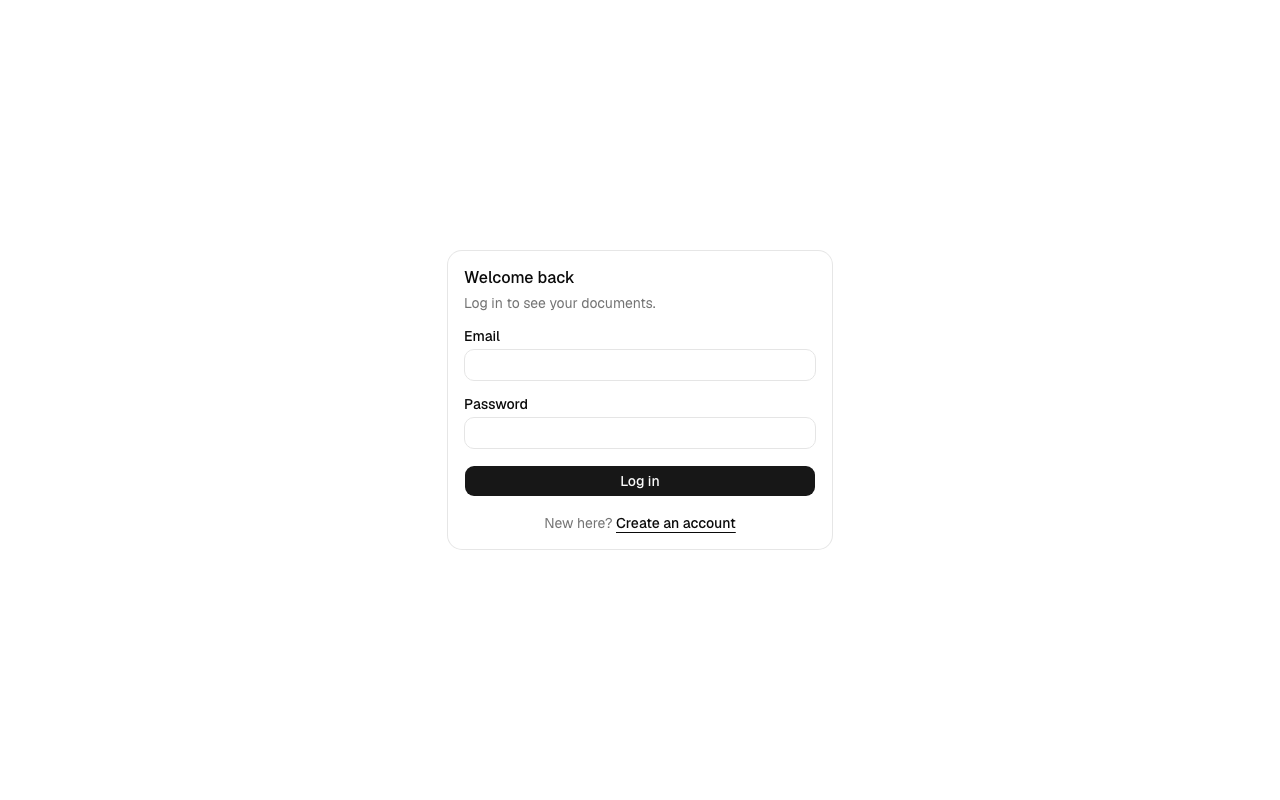
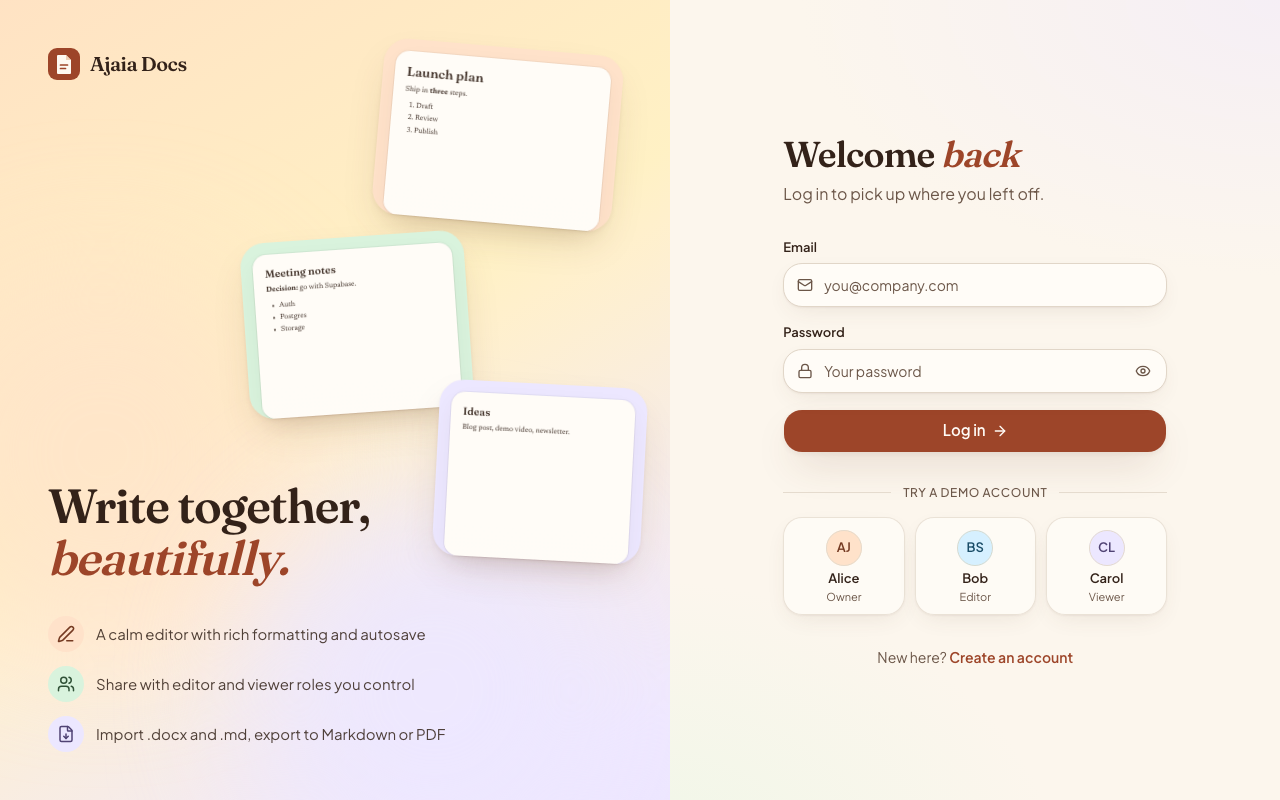
Fixed-layer background wash; docs updated for redesign

diff --git a/src/app/globals.css b/src/app/globals.css
@@ -144,11 +144,18 @@
   }
   body {
     @apply bg-background text-foreground;
+  }
+  /* Soft pastel wash behind everything (a fixed layer works on iOS too, unlike background-attachment) */
+  body::before {
+    content: "";
+    position: fixed;
+    inset: 0;
+    z-index: -1;
+    pointer-events: none;
     background-image:
       radial-gradient(900px 480px at 8% -8%, oklch(0.93 0.06 60 / 0.55), transparent 60%),
       radial-gradient(800px 460px at 100% 0%, oklch(0.94 0.045 295 / 0.45), transparent 60%),
       radial-gradient(700px 500px at 50% 110%, oklch(0.95 0.05 150 / 0.35), transparent 60%);
-    background-attachment: fixed;
   }
   h1, h2, h3 { font-family: var(--font-display); letter-spacing: -0.01em; }
   html {

diff --git a/README.md b/README.md
@@ -10,11 +10,16 @@ A small full-stack, Google-Docs-inspired editor: create and edit rich-text docum
 | `bob@example.com` | `Demo-pass-123` | **Editor** on Alice's *Q1 Product Roadmap*, **viewer** on *Meeting notes* |
 | `carol@example.com` | `Demo-pass-123` | **Viewer** on *Q1 Product Roadmap* |
 
-You can also create your own account at `/signup` (no email confirmation needed).
+You can also create your own account at `/signup` (no email confirmation needed). On the login page, the **Alice / Bob / Carol** buttons log you in with one click.
 
 > **Quick sharing demo:** open two browsers (or one normal + one private window), log in as Alice in one and Bob in the other. Alice: open *Q1 Product Roadmap* → **Share** → change Bob's role or remove him. Bob: refresh to see the change.
 
-![Dashboard](docs/screenshots/02-dashboard.png)
+![Dashboard](docs/screenshots/03-dashboard.png)
+
+| | |
+|---|---|
+| ![Login](docs/screenshots/01-login.png) | ![Editor](docs/screenshots/06-editor.png) |
+| ![Share dialog](docs/screenshots/05-share.png) | ![Phone layout](docs/screenshots/11-mobile-editor.png) |
 
 ## What it does
 
@@ -26,11 +31,12 @@ You can also create your own account at `/signup` (no email confirmation needed)
 | **File upload** | Turns a file into a **new editable document**. Supported: **`.txt`, `.md`, `.docx`**, up to **4 MB**. Headings, bold, italic, underline and lists are kept; images and tables are not imported. This is stated in the upload dialog. |
 | **Sharing & roles** | Owner shares by email as **Editor** or **Viewer**; owner can change roles or revoke at any time. Editors can edit and rename; viewers are read-only; only the owner can share or delete. Enforced in the database (RLS), not just the UI. |
 | **Export** *(stretch)* | **Markdown** (`.md` download) and **PDF** (browser print dialog → "Save as PDF", with a print stylesheet that hides the app chrome). Available to every role, from the editor or the dashboard card menu. |
-| **Quality** | Input validation (zod) on client and server, friendly error states, accessibility scans (axe) on every screen, responsive layout, 54 automated tests. |
+| **Design** | A warm pastel design system (cream, peach, sage, lavender) with a typographic pairing of Fraunces (display), Plus Jakarta Sans (UI) and Newsreader (document body). Document **thumbnails** on the dashboard, a glass navbar, and Framer Motion micro-interactions (staggered cards, hover lift, animated save status, animated dialogs); `prefers-reduced-motion` is respected. Login/signup are a split-screen with one-click **demo accounts**. |
+| **Quality** | Input validation (zod) on client and server, friendly error states, accessibility scans (axe) on every screen, responsive layout, 59 automated tests. |
 
 ## Tech stack
 
-Next.js 16 (App Router, Server Actions) · TypeScript · Tailwind + shadcn/ui · Tiptap editor · Supabase (Auth, Postgres + Row Level Security) · Vercel · Vitest + Playwright.
+Next.js 16 (App Router, Server Actions) · TypeScript · Tailwind + shadcn/ui · Framer Motion · Tiptap editor · Supabase (Auth, Postgres + Row Level Security) · Vercel · Vitest + Playwright.
 
 See [ARCHITECTURE.md](ARCHITECTURE.md) for design decisions and trade-offs.
 
@@ -74,7 +80,7 @@ npm run db:push
 ```
 
 This applies the SQL files in [`supabase/migrations`](supabase/migrations) using the Supabase CLI (installed on demand: `brew install supabase/tap/supabase`, or see the Supabase docs).
-**No CLI?** Open the Supabase dashboard → **SQL Editor**, then paste and run the two migration files **in order** (`…_init.sql`, then `…_fix_select_policy.sql`).
+**No CLI?** Open the Supabase dashboard → **SQL Editor**, then paste and run the three migration files **in order** (`…_init.sql`, `…_fix_select_policy.sql`, then `…_document_preview.sql`).
 
 ### 5. Seed demo data
 
@@ -93,7 +99,7 @@ npm run dev      # http://localhost:3000
 ## Tests
 
 ```bash
-npm test             # 35 unit + database tests (Vitest)
+npm test             # 40 unit + database tests (Vitest)
 npm run typecheck && npm run lint
 npm run test:e2e     # 19 browser tests (Playwright); starts the dev server itself
 ```
@@ -103,6 +109,7 @@ Run E2E against the deployed site with `E2E_BASE_URL=https://mock-doc.vercel.app
 
 What the tests cover:
 - **`tests/rls.test.ts`** — runs against the real Supabase project with throwaway users: strangers can't read, viewers can't write, editors can't change ownership or manage shares, only owners delete, revoked access takes effect immediately.
+- **`tests/preview.test.ts`** — the database trigger that derives dashboard thumbnails: capped to the first blocks, follows edits, can't be forged by a client, falls back to an excerpt for huge blocks.
 - **`tests/import.test.ts`, `tests/export.test.ts`** — txt/md/docx conversion (including a real `.docx` generated in the test), XSS stripping, bad-file rejection, Markdown serialization and a round trip.
 - **`tests/e2e/*`** — the full user journeys in a real browser: auth, CRUD + formatting persistence, upload, two-user sharing lifecycle (viewer → editor → revoked, including mid-edit), export downloads, offline autosave recovery, axe accessibility scans, and zero console errors.
 

diff --git a/AI_WORKFLOW.md b/AI_WORKFLOW.md
@@ -19,7 +19,7 @@
 - **Scaffolding and wiring:** Next 16 + shadcn + Supabase SSR auth + route protection in minutes instead of hours.
 - **Schema and RLS:** drafted tables, policies and `SECURITY DEFINER` helpers, then proved them with a database test using real users.
 - **Editor and converters:** Tiptap toolbar, autosave state machine, `.txt/.md/.docx` import, Markdown serializer.
-- **Tests:** 54 automated tests (35 unit/database + 19 Playwright), including two-user sharing scenarios that would have been tedious to hand-write.
+- **Tests:** 59 automated tests (40 unit/database + 19 Playwright), including two-user sharing scenarios that would have been tedious to hand-write.
 - **Ops chores:** finding the right Supabase pooler region (the direct DB host is IPv6-only), Vercel env vars across environments, GitHub integration.
 
 ## What AI got wrong, and what I changed or rejected
@@ -38,6 +38,10 @@ Every item below was a real defect or a rejected suggestion in this build:
 | 8 | **Phone layout** of the editor header | Overflowed horizontally (title input vanished, Share cut off). Found in a phone-width screenshot; fixed with a wrapping header and icon-only buttons. |
 | 9 | **My own E2E test** clicked Delete without waiting | Leaked "Untitled document" rows into the database. Fixed with unique titles and an assertion; cleaned the rows. |
 | 10 | **Axe scans mid-animation** reported false contrast failures | Added a wait for animations to settle before scanning (stricter and non-flaky, not a relaxed rule). |
+| 11 | **Visual redesign** (new theme, Framer Motion, thumbnails): the demo-login buttons used an `aria-label` that didn't contain their visible text | Axe flagged it; switched to a visible-text accessible name. The new "Log in as…" buttons also broke every E2E login (substring match), so tests now match exactly. |
+| 12 | **Animated save indicator** cross-faded, leaving the old "Saved" label on screen for ~160 ms | A sharing test passed a save-wait too early and read stale data. I exposed the true state as `data-save-status` and wait on that instead of on the label. |
+| 13 | **Failed test runs leaked data** into the demo accounts (again) | Added a Playwright global teardown that cleans test documents in the demo accounts after every run, scoped so real users' documents are never touched. |
+| 14 | **`background-attachment: fixed`** for the pastel wash | Looked wrong in full-page screenshots and is unreliable on iOS; replaced with a fixed pseudo-element layer. |
 
 ## How I verified correctness, UX quality and reliability
 

diff --git a/SUBMISSION.md b/SUBMISSION.md
@@ -16,7 +16,7 @@
 | `bob@example.com` | `Demo-pass-123` | **Editor** on *Q1 Product Roadmap*, **viewer** on *Meeting notes*; owns *Bob's launch ideas* |
 | `carol@example.com` | `Demo-pass-123` | **Viewer** on *Q1 Product Roadmap* |
 
-New accounts can also be created at `/signup` (no email confirmation).
+New accounts can also be created at `/signup` (no email confirmation). On the login page, the Alice / Bob / Carol buttons log in with one click.
 
 **Fastest way to see sharing work:** open two browsers (or a normal and a private window). Log in as Alice in one and Bob in the other. As Alice open *Q1 Product Roadmap* → **Share** → change Bob's role or remove him; refresh as Bob.
 
@@ -30,7 +30,7 @@ New accounts can also be created at `/signup` (no email confirmation).
 | `AI_WORKFLOW.md` | AI workflow note: tools, speed-ups, what was changed/rejected, how it was verified |
 | `SUBMISSION.md` | This file |
 | `walkthrough-video-url.txt` | Link to the 3–5 minute walkthrough video |
-| `docs/screenshots/` | Screenshots of the main flows (login, dashboard, upload, share, editor, export, shared-with-me, read-only viewer) |
+| `docs/screenshots/` | Screenshots of the main flows (login, signup, dashboard, upload, share, editor, export, shared-with-me, read-only viewer, phone layouts) |
 | `.env.example` | Template of the environment variables needed to run locally (no real values) |
 | `supabase/migrations/` | Database schema and Row Level Security policies |
 
@@ -44,7 +44,7 @@ New accounts can also be created at `/signup` (no email confirmation).
 | Sharing with owner / granted access / visible distinction | **Share** dialog; *Shared with me* section with role badges and "Shared by …" |
 | Persistence | Supabase Postgres; documents and shares survive refresh and sessions |
 | Setup instructions, deployment, validation/error handling | `README.md`; live URL; zod validation and error states throughout |
-| Automated tests | `npm test` (35) and `npm run test:e2e` (19) |
+| Automated tests | `npm test` (40) and `npm run test:e2e` (19) |
 | Architecture note / AI note | `ARCHITECTURE.md`, `AI_WORKFLOW.md` |
 | **Stretch: export to PDF or Markdown** | Editor → **Export**, or dashboard card menu |
 | **Stretch: role-based sharing beyond basic access** | Editor / Viewer roles, changeable and revocable; enforced in the database (RLS) |

diff --git a/ARCHITECTURE.md b/ARCHITECTURE.md
@@ -36,7 +36,7 @@ Browser (React / Tiptap)
 ```
 auth.users ──1:1── profiles(id, email, display_name)
                       │
-                      ├──< documents(id, owner_id, title, content jsonb, source, original_filename, timestamps)
+                      ├──< documents(id, owner_id, title, content jsonb, preview jsonb, source, original_filename, timestamps)
                       │         │
                       └──< document_shares(document_id, user_id, role: editor|viewer)  unique(document_id,user_id)
 ```
@@ -44,6 +44,12 @@ auth.users ──1:1── profiles(id, email, display_name)
 - `profiles` is created by a trigger on signup, so share-by-email can resolve users.
 - `documents.source` (`created` | `uploaded`) drives the dashboard's "Uploaded documents" section; `original_filename` is kept for provenance.
 - **Role model:** *owner* is implicit (`documents.owner_id`); `document_shares.role` is `editor` or `viewer`. A user has at most one share per document.
+
+## Thumbnails and the design system
+
+- **Dashboard thumbnails** are real miniatures of each document. A database trigger derives `documents.preview` (the first 6 blocks of `content`, with a plain-text-excerpt fallback if blocks are huge) on every insert/update, so the dashboard never downloads whole documents to draw cards, and clients can't forge it. `DocPreview` renders that slice at full size inside a scaled-down page. Tested in `tests/preview.test.ts`.
+- **Design tokens** live in `globals.css` (oklch): a cream/espresso base, a terracotta primary (chosen to keep AA contrast with white text), and pastel fills with matching "ink" colors for chips. Three fonts do three jobs: Fraunces for headings, Plus Jakarta Sans for UI, Newsreader for reading/writing.
+- **Motion** (Framer Motion) is deliberately small: staggered entrance and hover lift on cards, animated save status, animated dialogs and list changes, a page-entrance template, and a shake on failed auth. One `MotionConfig reducedMotion="user"` honors the OS setting, and E2E runs in reduced-motion mode so animation can't cause flakiness.
 
 ## Access control (the core of the sharing design)
 

diff --git a/PLAN.md b/PLAN.md
@@ -291,6 +291,17 @@ Dashboard sections (the "canvas"):
 
 If time-boxed tighter: finish 0–4 and 6–7 first, then 5 (export is the stretch; the validation and test items in Sprint 5 are core, so do those regardless).
 
+## Sprint 8 — Visual polish (requested after Sprint 6)
+
+- [x] Warm pastel design system (oklch tokens), richer fonts (Fraunces / Plus Jakarta Sans / Newsreader)
+- [x] Document thumbnails: `documents.preview` column + trigger (migration 3), `DocPreview` renderer, DB tests
+- [x] Prettier glass navbar with logo mark, animated CTAs, colored avatar
+- [x] Framer Motion micro-interactions (cards, hover lift, save status, dialogs, dropzone, empty states, page template) with reduced-motion support
+- [x] Redesigned login/signup: split screen, floating document art, password reveal, error shake, one-click demo accounts
+- [x] Editor restyle: paper page, floating toolbar pill, reading serif; responsive header
+- [x] Tests updated (exact label matching, true save-state attribute, global teardown); a11y + console checks still pass; E2E 19/19 locally and on production
+- [x] Docs + screenshots refreshed
+
 ## Final pre-submit checklist
 
 - [ ] Every row in Section 1 ticked
